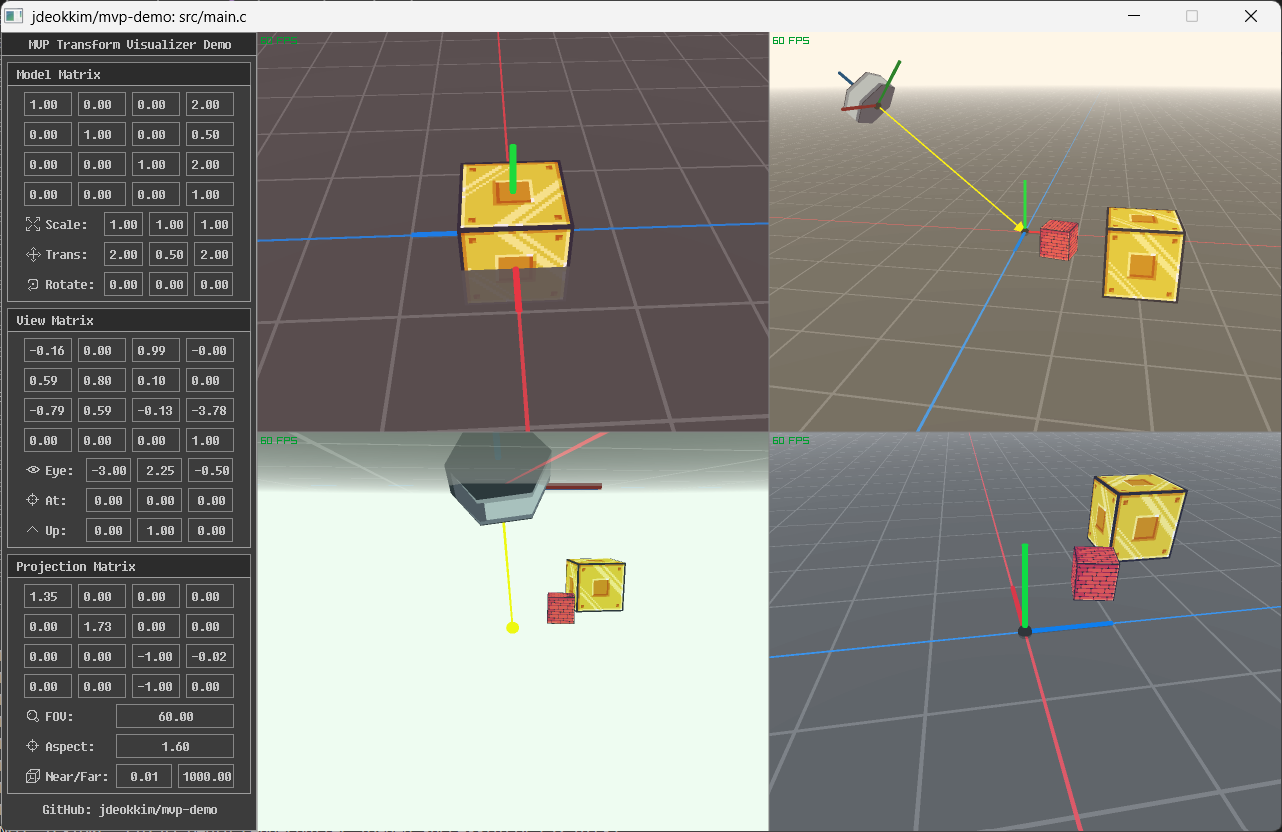
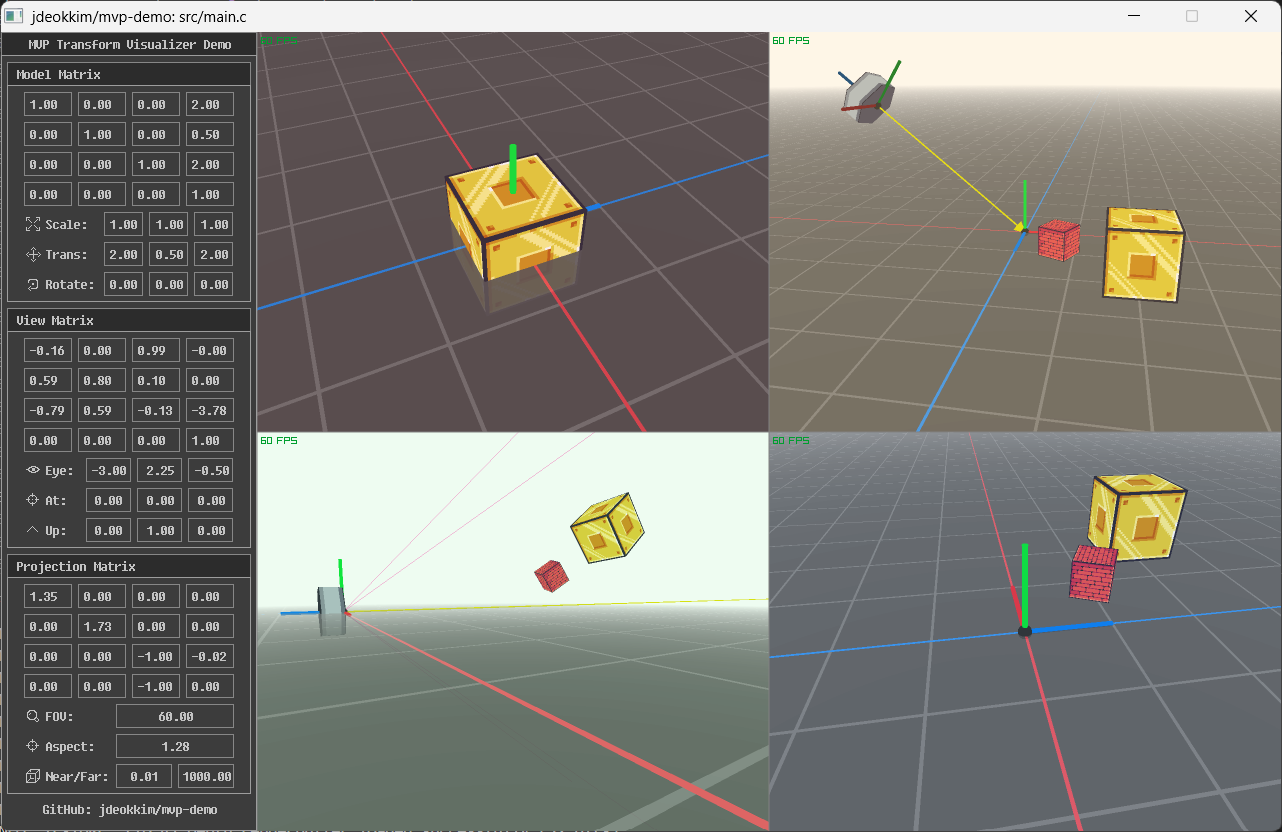
Implement `DrawViewFrustum()` function in src/utils.c

diff --git a/src/utils.c b/src/utils.c
@@ -86,22 +86,16 @@ void DrawGameObject(GameObject *gameObject, MvpRenderMode renderMode) {
 
     Matrix tmpMatModel = model->transform;
 
-    // "물체 공간"에서는 모든 물체의 좌표를 원점으로 고정
+    // "물체 공간"에서는 모든 물체의 모델 행렬을 초기화
     if (renderMode == MVP_RENDER_LOCAL) model->transform = MatrixIdentity();
 
     Vector3 virtualCameraEye = GetVirtualCamera()->position;
     Vector3 virtualCameraAt = GetVirtualCamera()->target;
 
-    // "뷰 공간"에서는 카메라가 원점에 오도록 모든 물체를 이동
-    if (renderMode == MVP_RENDER_VIEW) {
+    // "뷰 공간"에서는 카메라가 원점에 오도록 모든 물체의 모델 행렬을 변환
+    if (renderMode == MVP_RENDER_VIEW)
         model->transform = MatrixMultiply(model->transform,
-                                          MatrixTranslate(-virtualCameraEye.x,
-                                                          -virtualCameraEye.y,
-                                                          -virtualCameraEye.z));
-
-        virtualCameraAt = Vector3Negate(virtualCameraEye);
-        virtualCameraEye = Vector3Zero();
-    }
+                                          GetVirtualCameraViewMat());
 
     // NOTE: raylib의 `DrawModelEx()` 구현부에서 모델 행렬 계산하는 부분 삭제하고 가져옴
     for (int i = 0; i < model->meshCount; i++) {
@@ -122,22 +116,33 @@ void DrawGameObject(GameObject *gameObject, MvpRenderMode renderMode) {
             .color = color;
     }
 
-    if (gameObject == GetGameObject(OBJ_TYPE_CAMERA)) {
-        Matrix viewMat = GetVirtualCameraViewMat();
+    if (gameObject == GetGameObject(OBJ_TYPE_PLAYER)) {
+        // 모델의 정점 좌표 표시하기
+        // TODO: ...
+    } else if (gameObject == GetGameObject(OBJ_TYPE_CAMERA)) {
+        if (renderMode == MVP_RENDER_WORLD) {
+            Matrix viewMat = GetVirtualCameraViewMat();
 
-        // 뷰 행렬의 U축, V축과 N축 그리기
-        DrawAxesEx(
-            virtualCameraEye,
-            (Vector3) { .x = viewMat.m0, .y = viewMat.m4, .z = viewMat.m8 },
-            (Vector3) { .x = viewMat.m1, .y = viewMat.m5, .z = viewMat.m9 },
-            (Vector3) { .x = viewMat.m2, .y = viewMat.m6, .z = viewMat.m10 },
-            ColorBrightness(RED, -0.5f),
-            ColorBrightness(GREEN, -0.5f),
-            ColorBrightness(BLUE, -0.5f));
+            // 가상 카메라의 U축, V축과 N축 그리기
+            DrawAxesEx(virtualCameraEye,
+                       (Vector3) {
+                           .x = viewMat.m0, .y = viewMat.m4, .z = viewMat.m8 },
+                       (Vector3) {
+                           .x = viewMat.m1, .y = viewMat.m5, .z = viewMat.m9 },
+                       (Vector3) {
+                           .x = viewMat.m2, .y = viewMat.m6, .z = viewMat.m10 },
+                       ColorBrightness(RED, -0.5f),
+                       ColorBrightness(GREEN, -0.5f),
+                       ColorBrightness(BLUE, -0.5f));
 
-        DrawArrow(virtualCameraEye,
-                  virtualCameraAt,
-                  ColorBrightness(YELLOW, -0.1f));
+            // "EYE"에서 "AT"으로 향하는 화살표 그리기
+            DrawArrow(virtualCameraEye,
+                      virtualCameraAt,
+                      ColorBrightness(YELLOW, -0.1f));
+        }
+
+        // View Frustum 그리기
+        DrawViewFrustum(renderMode, PINK);
     }
 
     model->transform = tmpMatModel;
@@ -149,18 +154,18 @@ void DrawHelpText(RenderTexture renderTexture, bool isCameraLocked) {
                                                 (isCameraLocked ? "Locked"
                                                                 : "Unlocked"));
 
-    Vector2 cameraLockHelpTextSize = MeasureTextEx(GetGuiFont(),
+    Vector2 cameraLockHelpTextSize = MeasureTextEx(GetGuiDefaultFont(),
                                                    cameraLockHelpText,
-                                                   GetGuiFont().baseSize,
+                                                   GetGuiDefaultFont().baseSize,
                                                    0.0f);
 
-    DrawTextEx(GetGuiFont(),
+    DrawTextEx(GetGuiDefaultFont(),
                cameraLockHelpText,
                (Vector2) { .x = renderTexture.texture.width
                                 - (cameraLockHelpTextSize.x + 8.0f),
                            .y = renderTexture.texture.height
                                 - (cameraLockHelpTextSize.y + 8.0f) },
-               (GetGuiFont().baseSize),
+               (GetGuiDefaultFont().baseSize),
                0.0f,
                ColorBrightness(BLACK, (isCameraLocked ? 0.2f : 0.35f)));
 }
@@ -200,6 +205,113 @@ void DrawInfiniteGrid(const Camera *camera) {
     }
 
     rlEnableBackfaceCulling();
+}
+
+/* 가상 카메라의 View Frustum을 그리는 함수 */
+void DrawViewFrustum(MvpRenderMode renderMode, Color color) {
+    if (renderMode != MVP_RENDER_VIEW) return;
+
+    Camera virtualCamera = *(GetVirtualCamera());
+
+    Vector3 virtualCameraEye = Vector3Zero();
+
+    // "뷰 공간"에서는 가상 카메라의 U축, V축과 N축이 각각 X축, Y축과 Z축이 됨
+    Vector3 xAxis = { .x = 1.0f };
+    Vector3 yAxis = { .y = 1.0f };
+    Vector3 zAxis = { .z = 1.0f };
+
+    float nearDistance = GetViewFrustumNearDistance();
+    float farDistance = GetViewFrustumFarDistance();
+
+    float halfAngleInRadians = (0.5f * virtualCamera.fovy) * DEG2RAD;
+
+    // "Near Plane"의 세로 길이의 절반
+    float nearPlaneHalfHeight = nearDistance * tanf(halfAngleInRadians);
+
+    // "Near Plane"의 가로 길이의 절반
+    float nearPlaneHalfWidth = nearPlaneHalfHeight * GetViewFrustumAspect();
+
+    // "Near Plane"의 중심점
+    Vector3 nearPlaneCenter = Vector3Add(virtualCameraEye,
+                                         Vector3Scale(Vector3Negate(zAxis),
+                                                      nearDistance));
+
+    // "Far Plane"의 세로 길이의 절반
+    float farPlaneHalfHeight = farDistance * tanf(halfAngleInRadians);
+
+    // "Far Plane"의 가로 길이의 절반
+    float farPlaneHalfWidth = farPlaneHalfHeight * GetViewFrustumAspect();
+
+    // "Far Plane"의 중심점
+    Vector3 farPlaneCenter = Vector3Add(virtualCameraEye,
+                                        Vector3Scale(Vector3Negate(zAxis),
+                                                     farDistance));
+
+    {
+        rlDisableBackfaceCulling();
+
+        Vector3 nearPlaneLRTB[] = {
+            Vector3Add(nearPlaneCenter,
+                       Vector3Scale(xAxis, -nearPlaneHalfWidth)),
+            Vector3Add(nearPlaneCenter,
+                       Vector3Scale(xAxis, nearPlaneHalfWidth)),
+            Vector3Add(nearPlaneCenter,
+                       Vector3Scale(yAxis, nearPlaneHalfHeight)),
+            Vector3Add(nearPlaneCenter,
+                       Vector3Scale(yAxis, -nearPlaneHalfHeight))
+        };
+
+        Vector3 farPlaneLRTB[] = {
+            Vector3Add(farPlaneCenter, Vector3Scale(xAxis, -farPlaneHalfWidth)),
+            Vector3Add(farPlaneCenter, Vector3Scale(xAxis, farPlaneHalfWidth)),
+            Vector3Add(farPlaneCenter, Vector3Scale(yAxis, farPlaneHalfHeight)),
+            Vector3Add(farPlaneCenter, Vector3Scale(yAxis, -farPlaneHalfHeight))
+        };
+
+        /* "Near Plane" 그리기 */
+
+        // "Near Plane"의 정점 좌표
+        Vector3 nearPlaneVertices[] = {
+            Vector3Add(nearPlaneLRTB[0], nearPlaneLRTB[2]),  // LT
+            Vector3Add(nearPlaneLRTB[0], nearPlaneLRTB[3]),  // LB
+            Vector3Add(nearPlaneLRTB[1], nearPlaneLRTB[3]),  // RB
+            Vector3Add(nearPlaneLRTB[1], nearPlaneLRTB[2])   // RT
+        };
+
+        int nearPlaneVertexCount = sizeof nearPlaneVertices
+                                   / sizeof *nearPlaneVertices;
+
+        for (int i = nearPlaneVertexCount - 1, j = 0; j < nearPlaneVertexCount;
+             i = j, j++)
+            DrawLine3D(nearPlaneVertices[i], nearPlaneVertices[j], color);
+
+        /* "Far Plane" 그리기 */
+
+        // "Far Plane"의 정점 좌표
+        Vector3 farPlaneVertices[] = {
+            Vector3Add(farPlaneLRTB[0], farPlaneLRTB[2]),  // LT
+            Vector3Add(farPlaneLRTB[0], farPlaneLRTB[3]),  // LB
+            Vector3Add(farPlaneLRTB[1], farPlaneLRTB[3]),  // RB
+            Vector3Add(farPlaneLRTB[1], farPlaneLRTB[2])   // RT
+        };
+
+        int farPlaneVertexCount = sizeof farPlaneVertices
+                                  / sizeof *farPlaneVertices;
+
+        for (int i = farPlaneVertexCount - 1, j = 0; j < farPlaneVertexCount;
+             i = j, j++)
+            DrawLine3D(farPlaneVertices[i], farPlaneVertices[j], color);
+
+        /* "Near Plane"과 "Far Plane"을 잇는 선분 그리기 */
+        for (int i = 0; i < nearPlaneVertexCount; i++)
+            DrawLine3D(nearPlaneVertices[i], farPlaneVertices[i], color);
+
+        DrawArrow(virtualCameraEye,
+                      farPlaneCenter,
+                      ColorBrightness(YELLOW, -0.1f));
+
+        rlEnableBackfaceCulling();
+    }
 }
 
 /* 공용 셰이더 프로그램을 반환하는 함수 */

diff --git a/src/game.c b/src/game.c
@@ -275,24 +275,23 @@ static Rectangle guiProjMatAspectValueBoxArea[1];
 static char guiProjMatAspectValueText[1][MATRIX_VALUE_TEXT_LENGTH];
 
 /* "투영 행렬"의 "Aspect" 정보가 저장될 배열 */
-static float guiProjMatAspectValues[1] = { (float) SCREEN_WIDTH
-                                           / (float) SCREEN_HEIGHT };
+static float guiProjMatAspectValues[1];
 
 /* ========================================================================= */
 
-/* "투영 행렬"의 "Near/Far Plane" 영역 */
+/* "투영 행렬"의 "Near/Far Distance" 영역 */
 static Rectangle guiProjMatNearFarArea;
 
-/* "투영 행렬"의 "Near/Far Plane" 레이블 영역 */
+/* "투영 행렬"의 "Near/Far Distance" 레이블 영역 */
 static char guiProjMatNearFarLabelText[LABEL_TEXT_LENGTH];
 
-/* "투영 행렬"의 "Near/Far Plane"을 위한 입력 상자 영역 */
+/* "투영 행렬"의 "Near/Far Distance"을 위한 입력 상자 영역 */
 static Rectangle guiProjMatNearFarValueBoxArea[2];
 
-/* "투영 행렬"의 "Near/Far Plane"을 나타내는 문자열 */
+/* "투영 행렬"의 "Near/Far Distance"을 나타내는 문자열 */
 static char guiProjMatNearFarValueText[2][MATRIX_VALUE_TEXT_LENGTH];
 
-/* "투영 행렬"의 "Near/Far Plane" 정보가 저장될 배열 */
+/* "투영 행렬"의 "Near/Far Distance" 정보가 저장될 배열 */
 static float guiProjMatNearFarValues[2] = { RL_CULL_DISTANCE_NEAR,
                                             RL_CULL_DISTANCE_FAR };
 
@@ -470,13 +469,28 @@ GameObject *GetGameObject(int index) {
 }
 
 /* GUI 영역에 사용되는 글꼴을 반환하는 함수 */
-Font GetGuiFont(void) {
+Font GetGuiDefaultFont(void) {
     return GuiGetFont();
 }
 
 /* MVP 영역에 그려지고 있는 화면의 종류를 반환하는 함수 */
 MvpRenderMode GetMvpRenderMode(void) {
     return renderMode;
+}
+
+/* View Frustum의 "Aspect" 값을 반환하는 함수 */
+float GetViewFrustumAspect(void) {
+    return guiProjMatAspectValues[0];
+}
+
+/* View Frustum의 "Near Distance" 값을 반환하는 함수 */
+float GetViewFrustumNearDistance(void) {
+    return guiProjMatNearFarValues[0];
+}
+
+/* View Frustum의 "Far Distance" 값을 반환하는 함수 */
+float GetViewFrustumFarDistance(void) {
+    return guiProjMatNearFarValues[1];
 }
 
 /* "모델 행렬"을 업데이트하는 함수 */
@@ -554,7 +568,12 @@ void UpdateViewMatrix(bool fromGUI) {
 
 /* "투영 행렬"을 업데이트하는 함수 */
 void UpdateProjMatrix(bool fromGUI) {
-    if (fromGUI) GetVirtualCamera()->fovy = guiProjMatFovValues[0];
+    if (fromGUI) {
+        GetVirtualCamera()->fovy = guiProjMatFovValues[0];
+
+        // NOTE: 창 크기가 아닌 `mvpArea` 크기를 이용해 "Aspect" 값을 설정해야 함!
+        guiProjMatAspectValues[0] = (float) mvpArea.width / (float) mvpArea.height;
+    }
 
     UpdateMatrixEntryText(guiProjMatEntryText, GetVirtualCameraProjMat());
 
@@ -769,16 +788,16 @@ static void DrawRenderModeText(void) {
 
     const char *renderModeHelpText = "Mode #%d (Press 'ALT' + [0-4])";
 
-    Vector2 renderModeHelpTextSize = MeasureTextEx(GetGuiFont(),
+    Vector2 renderModeHelpTextSize = MeasureTextEx(GuiGetFont(),
                                                    renderModeHelpText,
-                                                   (GetGuiFont().baseSize),
+                                                   (GuiGetFont().baseSize),
                                                    0.0f);
 
-    DrawTextEx(GetGuiFont(),
+    DrawTextEx(GuiGetFont(),
                TextFormat(renderModeHelpText, renderMode),
                (Vector2) { .x = SCREEN_WIDTH - renderModeHelpTextSize.x,
                            .y = 8.0f },
-               (GetGuiFont().baseSize),
+               (GuiGetFont().baseSize),
                0.0f,
                ColorAlpha(PURPLE, renderModeAlpha));
 }

diff --git a/src/view.c b/src/view.c
@@ -35,9 +35,9 @@
 static Camera3D camera = {
     /* "EYE" */
     .position = { 
-        .x = -5.0f, 
-        .y = -0.25f, 
-        .z = -0.5f 
+        .x = 1.0f, 
+        .y = 1.5f, 
+        .z = 3.0f 
     },
     /* "UP" */
     .up = { 
@@ -46,7 +46,7 @@ static Camera3D camera = {
         .z = 0.0f 
     },
     /* "FOV" */
-    .fovy = 45.0f,
+    .fovy = 60.0f,
     /* "PROJECTION" */
     .projection = CAMERA_PERSPECTIVE
 };
@@ -65,7 +65,14 @@ static void HandleInputEvents(void);
 
 /* "카메라 (뷰) 공간"을 초기화하는 함수 */
 void InitViewSpace(void) {
-    camera.target = Vector3Negate(GetVirtualCamera()->position);
+    Vector3 virtualCameraEye = GetVirtualCamera()->position;
+    Vector3 virtualCameraAt = GetVirtualCamera()->target;
+    Vector3 virtualCameraUp = GetVirtualCamera()->up;
+
+    camera.target = Vector3Transform(GetVirtualCamera()->position,
+                                     MatrixLookAt(virtualCameraEye,
+                                                  virtualCameraAt,
+                                                  virtualCameraUp));
 }
 
 /* 프레임버퍼에 "카메라 (뷰) 공간"을 그리는 함수 */

diff --git a/include/mvp-demo.h b/include/mvp-demo.h
@@ -124,10 +124,19 @@ Shader GetCommonShader(void);
 GameObject *GetGameObject(int index);
 
 /* GUI 영역에 사용되는 글꼴을 반환하는 함수 */
-Font GetGuiFont(void);
+Font GetGuiDefaultFont(void);
 
 /* MVP 영역에 그려지고 있는 화면의 종류를 반환하는 함수 */
 MvpRenderMode GetMvpRenderMode(void);
+
+/* View Frustum의 "Aspect" 값을 반환하는 함수 */
+float GetViewFrustumAspect(void);
+
+/* View Frustum의 "Near Distance" 값을 반환하는 함수 */
+float GetViewFrustumNearDistance(void);
+
+/* View Frustum의 "Far Distance" 값을 반환하는 함수 */
+float GetViewFrustumFarDistance(void);
 
 /* "모델 행렬"을 업데이트하는 함수 */
 void UpdateModelMatrix(bool fromGUI);
@@ -191,6 +200,9 @@ void DrawHelpText(RenderTexture renderTexture,
 
 /* 공용 셰이더 프로그램으로 XZ 평면에 격자 무늬를 그리는 함수 */
 void DrawInfiniteGrid(const Camera *camera);
+
+/* 가상 카메라의 View Frustum을 그리는 함수 */
+void DrawViewFrustum(MvpRenderMode renderMode, Color color);
 
 /* 공용 셰이더 프로그램을 반환하는 함수 */
 Shader LoadCommonShader(void);

diff --git a/src/world.c b/src/world.c
@@ -149,7 +149,9 @@ Matrix GetVirtualCameraModelMat(void) {
 
 /* 가상 카메라로 만들어지는 뷰 행렬을 반환하는 함수 */
 Matrix GetVirtualCameraViewMat(void) {
-    return GetCameraMatrix(virtualCamera);
+    return MatrixLookAt(virtualCamera.position,
+                        virtualCamera.target,
+                        virtualCamera.up);
 }
 
 /* Private Functions ======================================================= */
